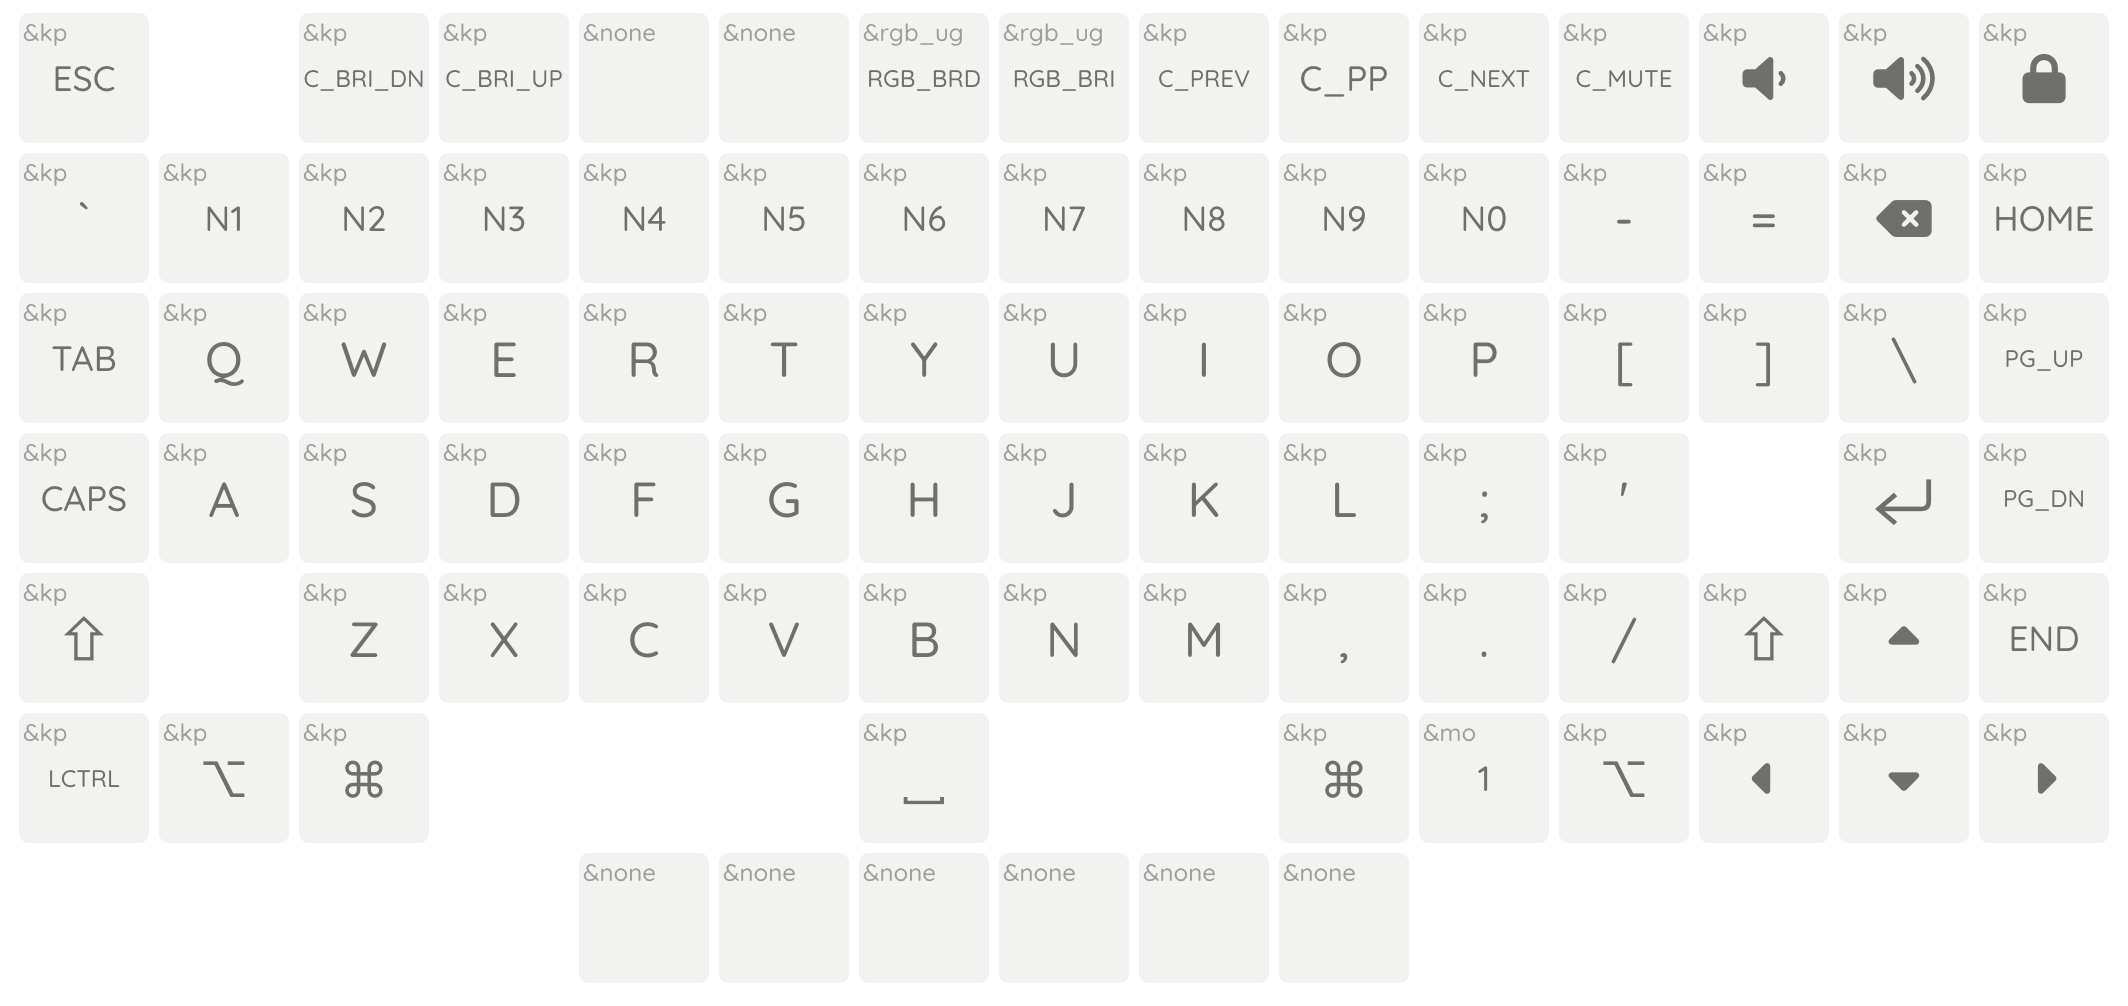
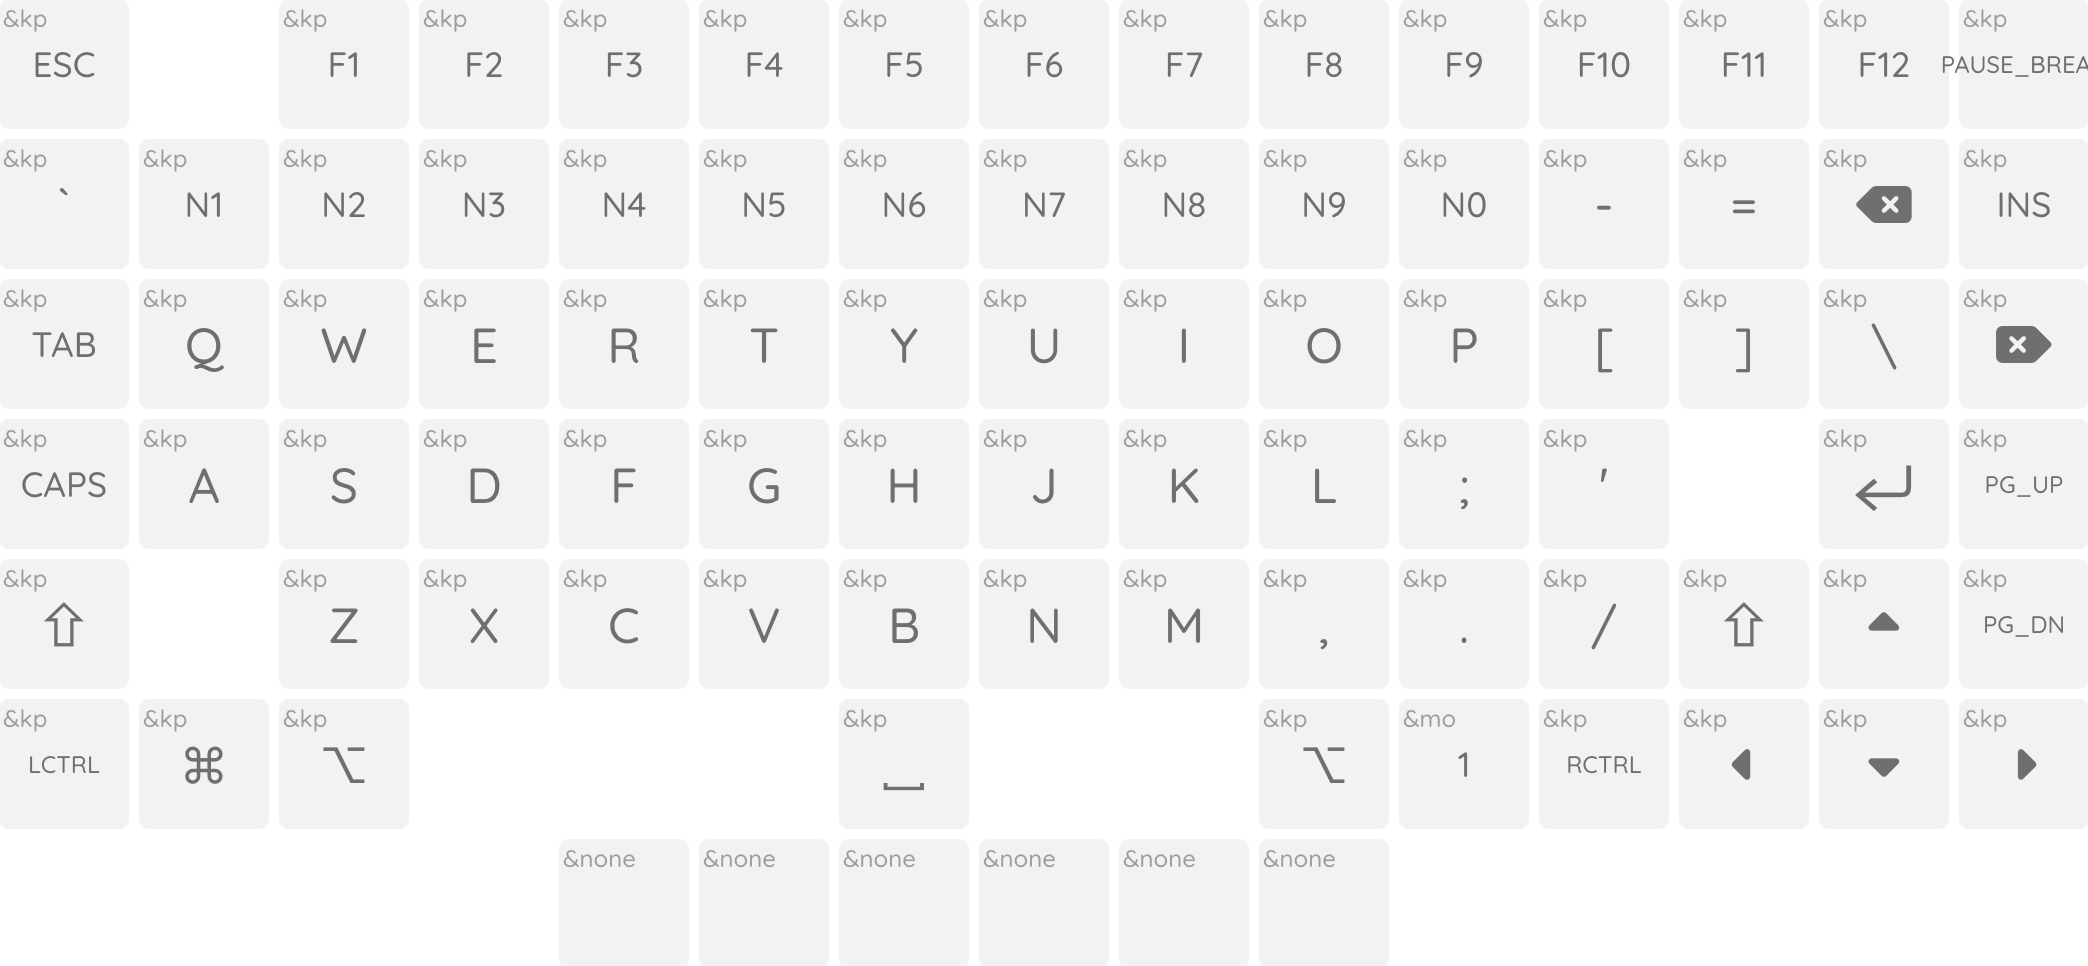
Update default keymap

diff --git a/config/boards/arm/hw75/README.md b/config/boards/arm/hw75/README.md
@@ -25,7 +25,7 @@ HW-75 Keyboard
 
 ![keymap](keymap.png)
 
-本固件默认为针对 Mac 用户的按键布局 (并且屏蔽了触摸条)。如果你需要在 Windows 上使用，可以将本仓库 Fork 到自己账号下之后使用 [ZMK Keymap Editor](https://nickcoutsos.github.io/keymap-editor/) 修改，或手动编辑 [`hw75.keymap`](/config/hw75.keymap) 文件。然后等待云端编译出新的固件。
+本固件默认布局屏蔽了触摸条。如需更改布局，你可以将本仓库 Fork 到自己账号下之后使用 [ZMK Keymap Editor](https://nickcoutsos.github.io/keymap-editor/) 修改，或手动编辑 [`hw75.keymap`](/config/hw75.keymap) 文件。然后等待云端编译出新的固件。
 
 ### 灯效
 
